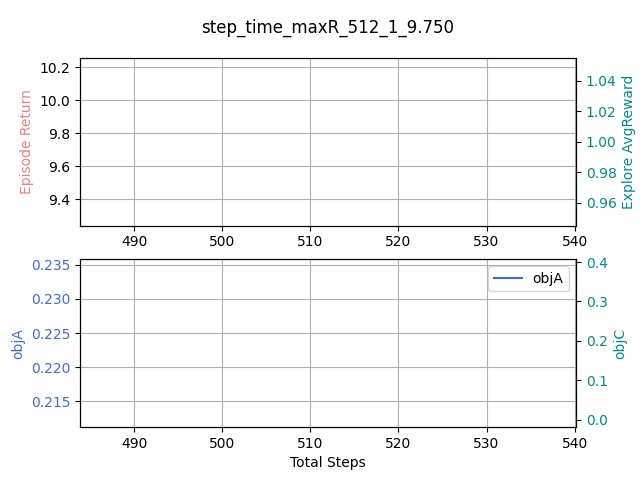
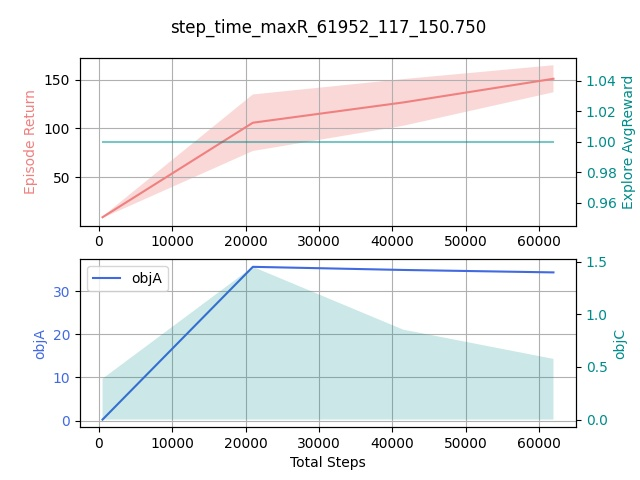
clear other files

diff --git a/train.py b/train.py
@@ -1,7 +1,7 @@
+# Env humanoid
 from elegantrl.train.run import train_agent, train_agent_multiprocessing
 from elegantrl.train.config import Config, build_env, get_gym_env_args
 from elegantrl.agents import AgentDQN
-
 
 agent_class = AgentDQN
 env_name = "CartPole-v0"
@@ -14,24 +14,22 @@ env_args = get_gym_env_args(env, if_print=True)
 
 args = Config(agent_class, env_func, env_args)
 
+'''network train'''
+args.max_step = 1000
+
 '''reward shaping'''
 args.reward_scale = 2 ** 0  # an approximate target reward usually be closed to 256
 args.gamma = 0.97  # discount factor of future rewards
 
 '''network update'''
-args.target_step = args.max_step * 2  # collect target_step, then update network
-args.net_dim = 2 ** 7  # the middle layer dimension of Fully Connected Network
-args.num_layer = 3  # the layer number of MultiLayer Perceptron, `assert num_layer >= 2`
 args.batch_size = 2 ** 7  # num of transitions sampled from replay buffer.
 args.repeat_times = 2 ** 0  # repeatedly update network using ReplayBuffer to keep critic's loss small
-args.explore_rate = 0.25  # epsilon-greedy for exploration.
 
 '''evaluate'''
-args.eval_gap = 2 ** 5  # number of times that get episode return
 args.eval_times = 2 ** 3  # number of times that get episode return
 args.break_step = int(8e4)  # break training if 'total_step > break_step'
 
-
+'''gpu cpu'''
 args.learner_gpus = -1
 
 train_agent(args)
